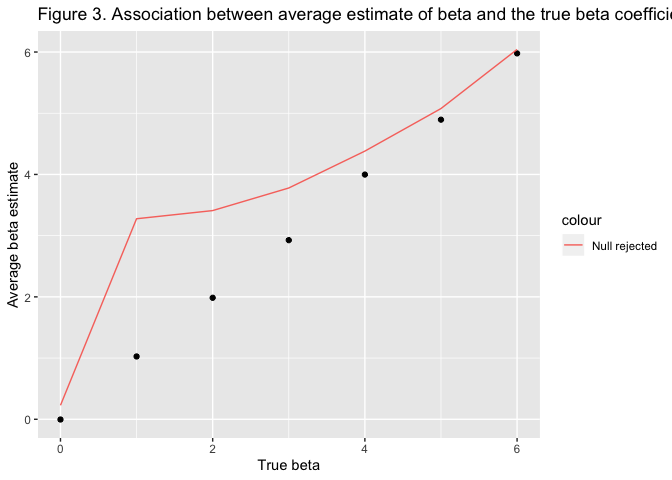
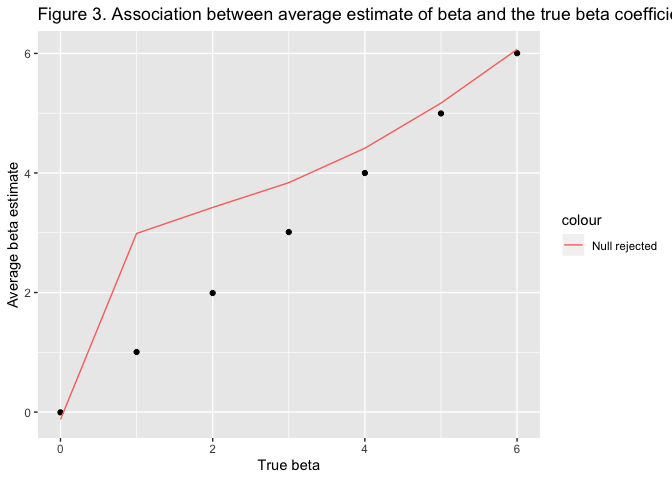
Got it to run with 10000 after restarting my computer. I know it's after 4 so my version with 1000 will be graded. just figured I'd push anyways

diff --git a/p8105_hw5_az2356.md b/p8105_hw5_az2356.md
@@ -123,13 +123,13 @@ sim_regression = function(n = 30, beta0 = 2, beta1 = 0) {
     )
 }
 
-sim_results = rerun(1000, sim_regression(beta1 = 0)) %>% 
+sim_results = rerun(10000, sim_regression(beta1 = 0)) %>% 
   bind_rows()
 
 newsim_results = 
   tibble(beta11 = c(0,1,2,3,4,5,6)) %>% 
   mutate(
-    output_lists = map(.x = beta11, ~rerun(1000, sim_regression(beta1 = .x))),
+    output_lists = map(.x = beta11, ~rerun(10000, sim_regression(beta1 = .x))),
     estimate_dfs = map(output_lists, bind_rows)) %>% 
   select(-output_lists) %>% 
   unnest(estimate_dfs)
